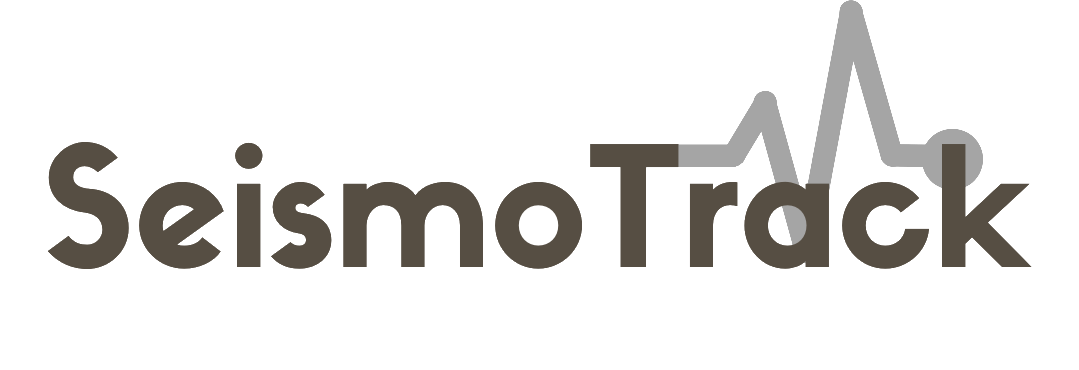
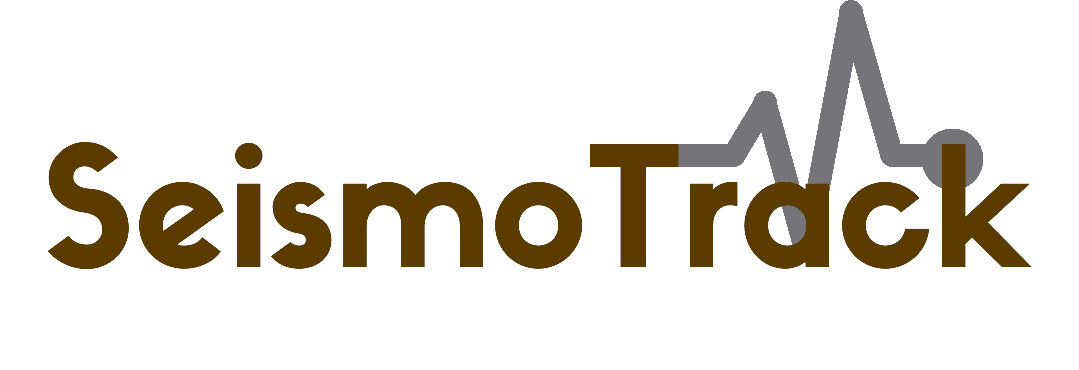
add : add vercel.json

Changed region(s): [[0.0306, 0.0, 0.9481, 0.7432]]

diff --git a/src/pages/pages_component/AboutText.tsx b/src/pages/pages_component/AboutText.tsx
@@ -8,7 +8,7 @@ export default function AboutText() {
           Memantau Gempa Bumi, Lebih Cepat dan Akurat. SeismoTrack hadir sebagai inovasi terbaru yang menjawab kebutuhan masyarakat Indonesia akan platform pemantau gempa yang real-time, informatif dan terpercaya.
         </p>
         <p>
-          Di negara dengan aktivitas seismik tinggi seperti Indonesia, informasi gempa seringkali terlambat atau tidak dapat diakses secara visual dan mudah dipahami. Kami melihat belum adanya platform terpadu yang menggabungkan data resmi, fitur filter pintar, serta tampilan peta yang mudah dipahami untuk semua kalangan.
+          Di negara dengan aktivitas seismik tinggi seperti Indonesia, informasi gempa seringkali terlambat atau tidak dapat diakses secara visual dan mudah dipahami. Kami melihat belum adanya platform terpadu yang menggabungkan data resmi, serta tampilan peta yang mudah dipahami untuk semua kalangan.
         </p>
         <p>
           Dengan mengandalkan data resmi dari BMKG dan sistem yang terus diperbarui setiap saat, SeismoTrack berkomitmen untuk terus memberikan data tujuan tersebut.

diff --git a/src/pages/pages_component/Pages_header.tsx b/src/pages/pages_component/Pages_header.tsx
@@ -46,7 +46,7 @@ const Header: React.FC = () => {
                 className={clsx(
                   "relative py-2 text-md font-cascadia transition-colors duration-300 ease-in-out font-bold capitalize",
                   activeSection === item
-                    ? "text-transparent bg-clip-text bg-gradient-to-r from-[#5C3B00] to-[#333333]"
+                    ? "text-[#5C3B00] bg-clip-text"
                     : "text-slate-400"
                 )}
               >

diff --git a/index.html b/index.html
@@ -4,7 +4,7 @@
     <meta charset="UTF-8" />
     <link rel="icon" href="/images/images_home/hero_seismo.png" />
     <link href="https://fonts.googleapis.com/css2?family=Cascadia+Code&display=swap" rel="stylesheet">
-
+    
     <meta name="viewport" content="width=device-width, initial-scale=1.0" />
     <title>SeismoTrack</title>
   </head>

diff --git a/src/pages/pages_component/HeroSection.tsx b/src/pages/pages_component/HeroSection.tsx
@@ -23,7 +23,7 @@ const HeroSection: React.FC = () => {
             <img
               src="/images/images_home/hero_seismo.png"
               alt="SeismoTrack Hero"
-              className="w-full max-w-md lg:max-w-lg h-auto"
+              className="w-1/2 max-w-md lg:max-w-lg h-auto"
             />
           </div>
 
